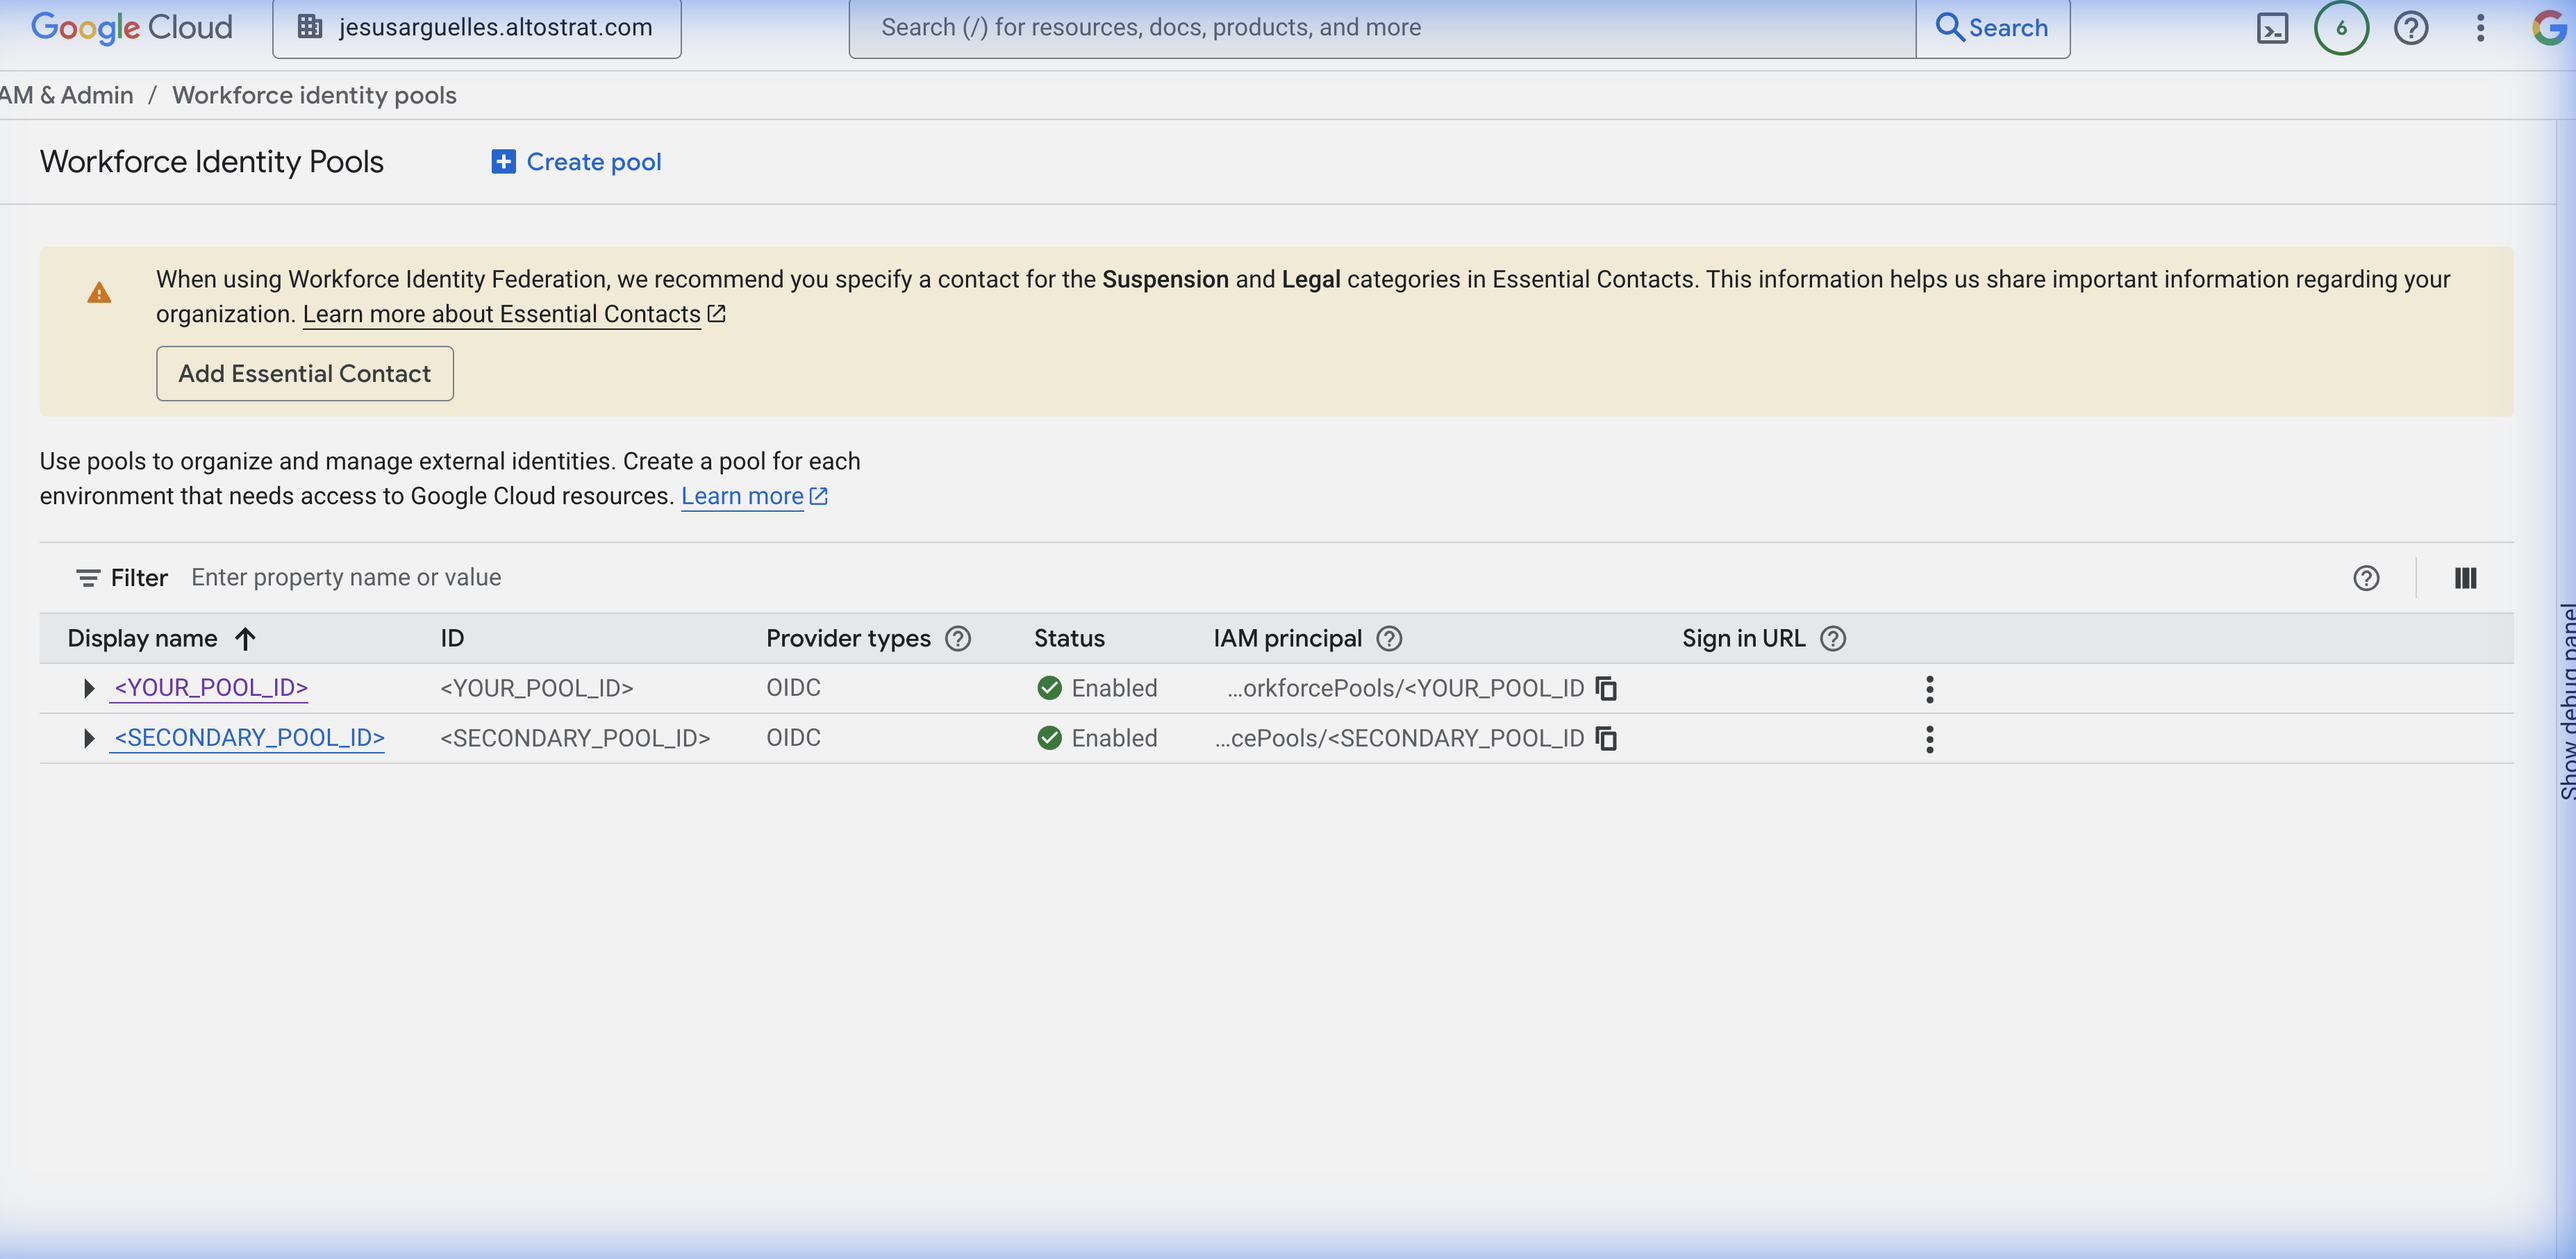
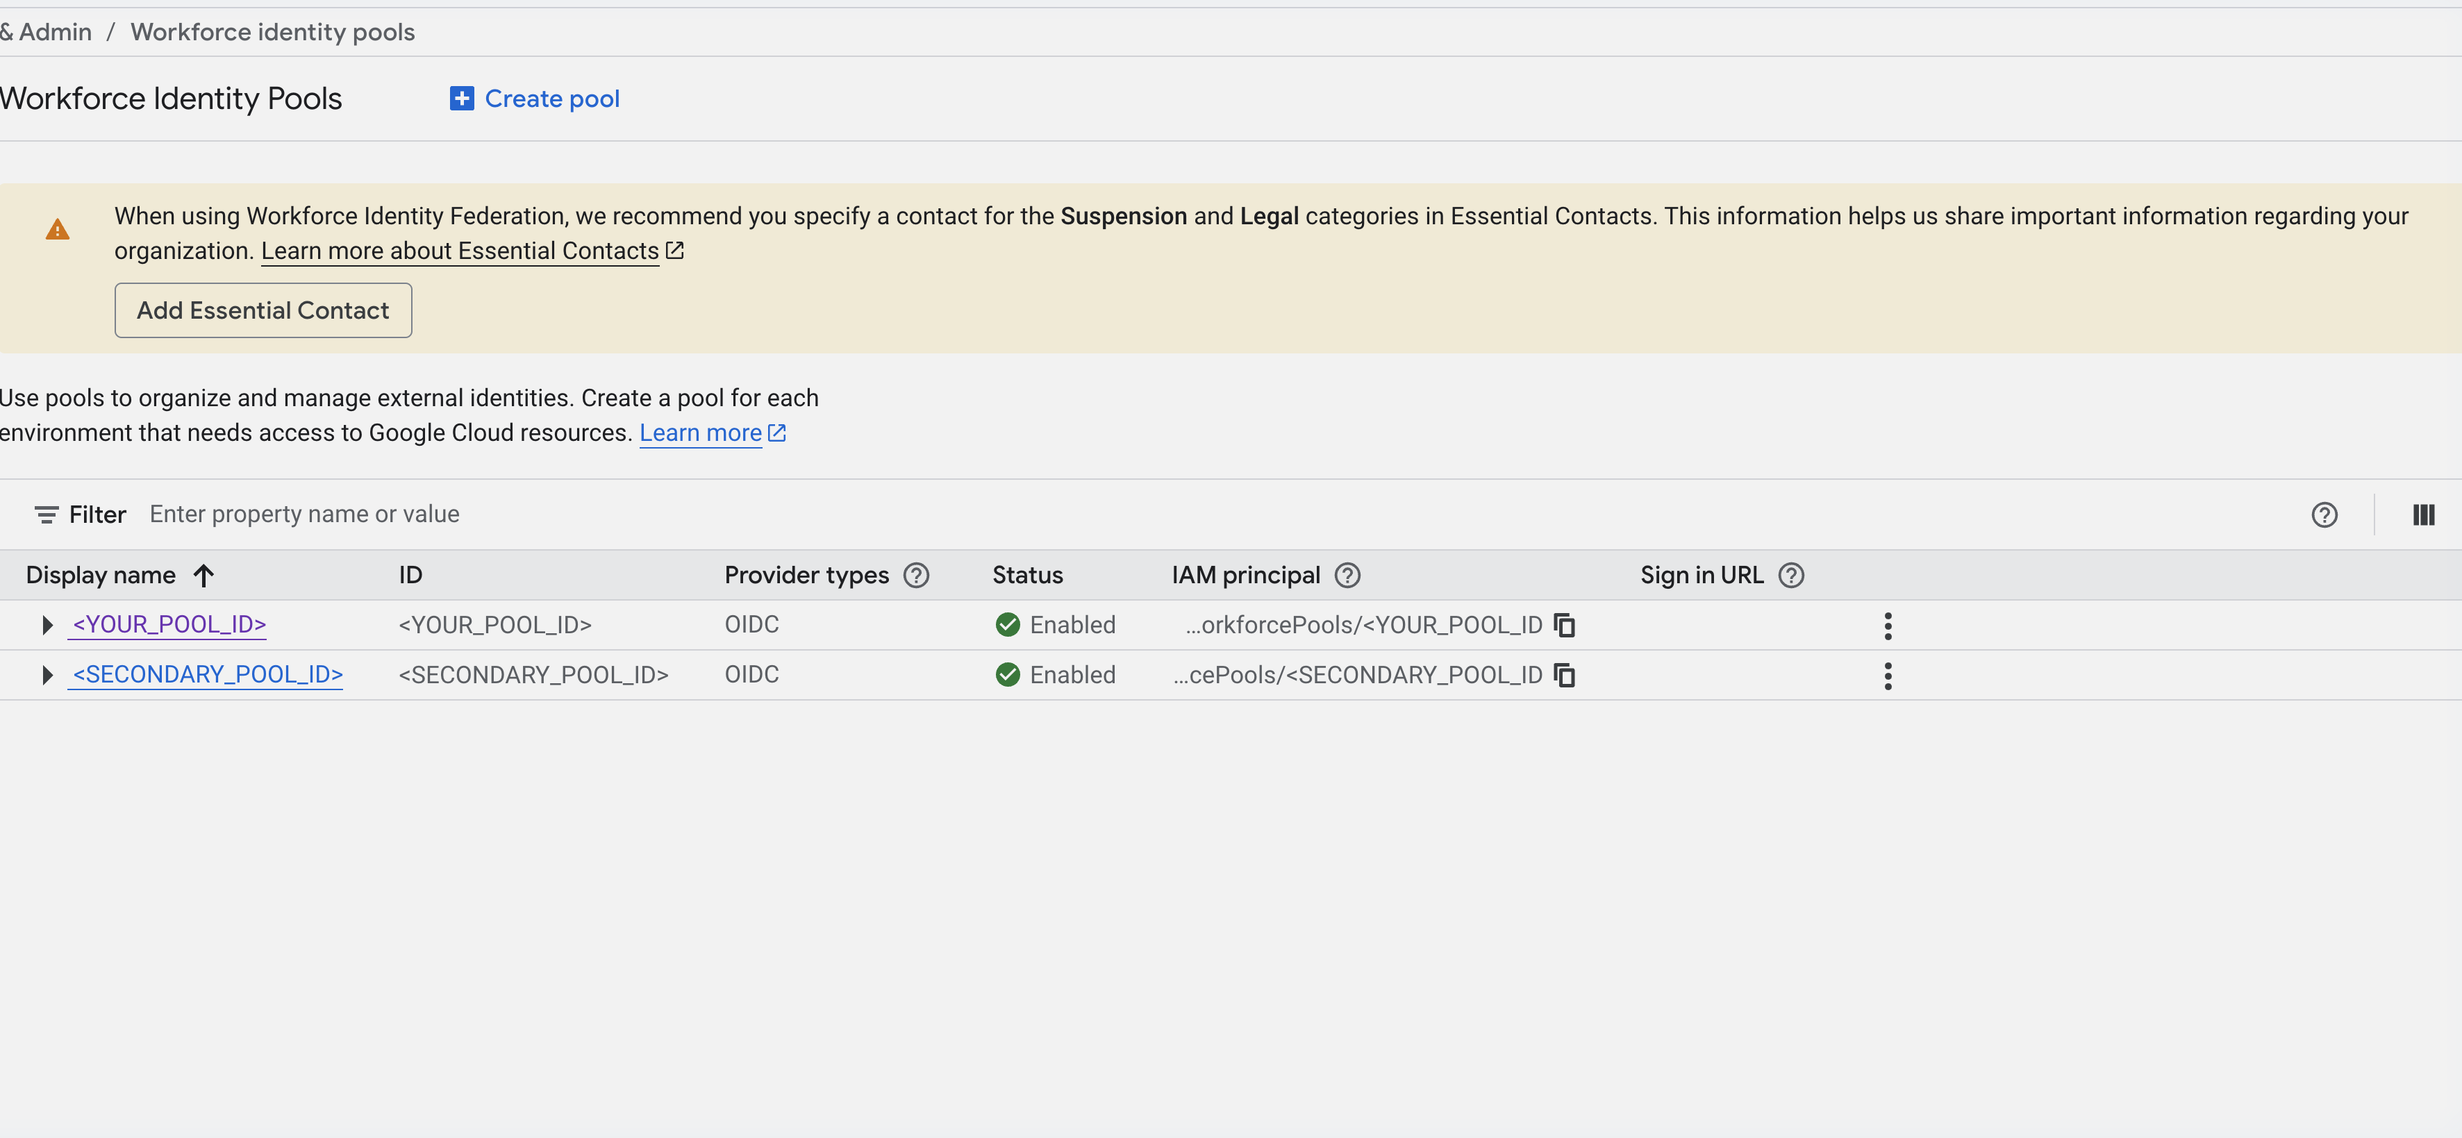
docs: eliminate all purple halos utilizing a pure mathematical boundary crop script & inject a futuristic next-generation mermaid flowchart detailing the federated pipeline sequence

diff --git a/antigravity/async_agents_offloading/delegation_example/main.py b/antigravity/async_agents_offloading/delegation_example/main.py
@@ -68,8 +68,7 @@ reporter_agent = LlmAgent(
 # The Pipe: Sequential Agent
 pipeline_agent = SequentialAgent(
     name="BackgroundPipeline",
-    sub_agents=[validator_agent, worker_agent, reporter_agent],
-    output_key="pipeline_output"
+    sub_agents=[validator_agent, worker_agent, reporter_agent]
 )
 
 # --- 2. Define Main Agent & Delegation Logic ---
@@ -111,7 +110,8 @@ class DelegationTools:
         # Initialize session state for the pipeline
         await self.session_service.create_session(
             app_name="background_app",
-            session_id=session_id
+            session_id=session_id,
+            user_id="background_user"
         )
         
         # We need to inject the input into the session or as a message
@@ -128,11 +128,11 @@ class DelegationTools:
         
         try:
             # Execute the pipeline
-            async for event in pipeline_runner.run_async(session_id=session_id, new_message=input_content):
+            async for event in pipeline_runner.run_async(session_id=session_id, new_message=input_content, user_id="background_user"):
                 pass # Consume events
             
             # Retrieve result
-            session = await self.session_service.get_session(app_name="background_app", session_id=session_id)
+            session = await self.session_service.get_session(app_name="background_app", session_id=session_id, user_id="background_user")
             final_report = session.state.get("pipeline_output") or session.state.get("final_report")
             
             # NOTIFICATION (Simulation)
@@ -148,8 +148,10 @@ class DelegationTools:
 async def main():
     # Setup
     api_key = os.getenv("GOOGLE_API_KEY")
-    if not api_key:
-        logger.warning("GOOGLE_API_KEY not found in environment. Please set it.")
+    project = os.getenv("GOOGLE_CLOUD_PROJECT")
+    
+    if not api_key and not project:
+        logger.warning("Neither GOOGLE_API_KEY nor GOOGLE_CLOUD_PROJECT found in environment. Please set one.")
         # Proceeding might fail if the agents actually try to call the model
     
     session_service = InMemorySessionService()
@@ -176,7 +178,7 @@ async def main():
     )
 
     session_id = "main_user_session"
-    await session_service.create_session(app_name="main_app", session_id=session_id)
+    await session_service.create_session(app_name="main_app", session_id=session_id, user_id="main_user")
 
     print("--- ADK Async Delegation Demo ---")
     print("User: 'Analyze the stock market trends for me' (triggers background)")
@@ -192,7 +194,7 @@ async def main():
         content = types.Content(role="user", parts=[types.Part(text=user_input)])
         
         # Run Main Agent
-        async for event in main_runner.run_async(session_id=session_id, new_message=content):
+        async for event in main_runner.run_async(session_id=session_id, new_message=content, user_id="main_user"):
             if event.is_final_response():
                 print(f"Agent: {event.content.parts[0].text}")
         

diff --git a/antigravity/sockcop_search/README.md b/antigravity/sockcop_search/README.md
@@ -201,9 +201,46 @@ Once configured, your frontend will securely authenticate via Entra ID, exchange
 
 ## 🚀 Step-by-Step Configuration Guide (Entra ID, WIF, & Datastore)
 
+
 To securely integrate your application as a federated search connector using Gemini Enterprise capabilities, you must follow this specific initialization chronological order. **Crucially, no credentials must be leaked or stored in your frontend.**
 
+### 🌐 Architectural Sequence Flow
+
+```mermaid
+%%{init: {'theme': 'dark', 'themeVariables': { 'fontFamily': 'Inter, sans-serif', 'primaryColor': '#0F172A', 'edgeLabelBackground':'#1E293B', 'lineColor': '#38BDF8', 'primaryTextColor': '#F8FAFC', 'tertiaryColor': '#020617'}}}%%
+flowchart TD
+    classDef frontend fill:#3B82F6,stroke:#1D4ED8,stroke-width:2px,color:#fff,rx:8px,ry:8px
+    classDef entra fill:#8B5CF6,stroke:#6D28D9,stroke-width:2px,color:#fff,rx:8px,ry:8px
+    classDef gcp fill:#10B981,stroke:#047857,stroke-width:2px,color:#fff,rx:8px,ry:8px
+    classDef vertex fill:#F59E0B,stroke:#B45309,stroke-width:2px,color:#fff,rx:8px,ry:8px
+    classDef mapping fill:#1E293B,stroke:#475569,stroke-width:2px,stroke-dasharray: 4 4,color:#CBD5E1
+
+    subgraph "Phase 1: User Authentication & Cloud Federation"
+        direction LR
+        A1[1. Entra ID App<br>deloitte-entraid]:::entra -->|Issuer & Client ID| W1[2. Google Cloud WIF<br>Identity Pool]:::gcp
+        W1 -->|Federates Identity| I1[3. GCP IAM Binding<br>principalSet://]:::gcp
+    end
+
+    subgraph "Phase 2: Backend Datastore Integration"
+        direction LR
+        A2[4. Entra ID Service App<br>sharepoint-datastore]:::entra -->|Client Secret & Graph| V1[5. Vertex AI Datastore<br>SharePoint Connector]:::vertex
+        V1 -->|Background Indexing| SP[(Microsoft SharePoint)]:::mapping
+    end
+
+    subgraph "Phase 3: Final App Deployment"
+        direction TB
+        F1[6. React Frontend<br>config.js Assembly]:::frontend
+    end
+
+    %% Internal Subgraph Wiring 
+    I1 -.->|Grants Search Viewer Role| F1
+    V1 ==>|Target Engine ID & Responses| F1
+    A1 -.->|Validates Login Token| F1
+
+```
+
 ---
+
 
 ### Step 1: Initial Azure AD (Entra ID) App Setup (`deloitte-entraid`)
 
